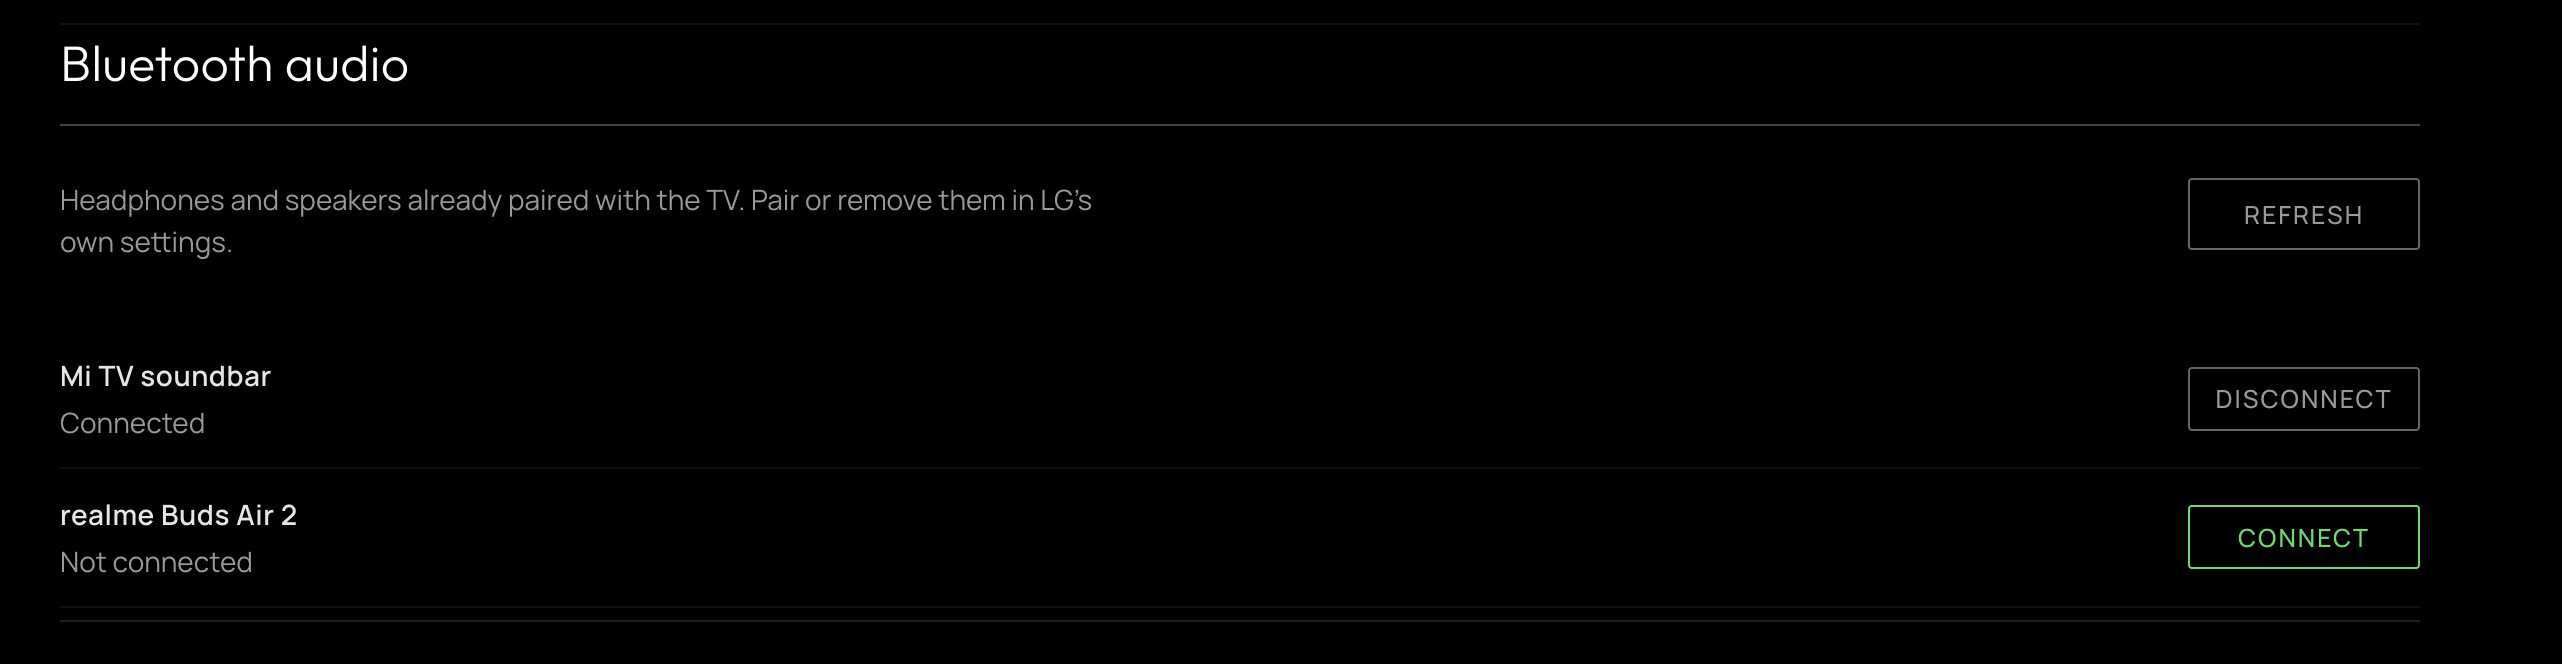
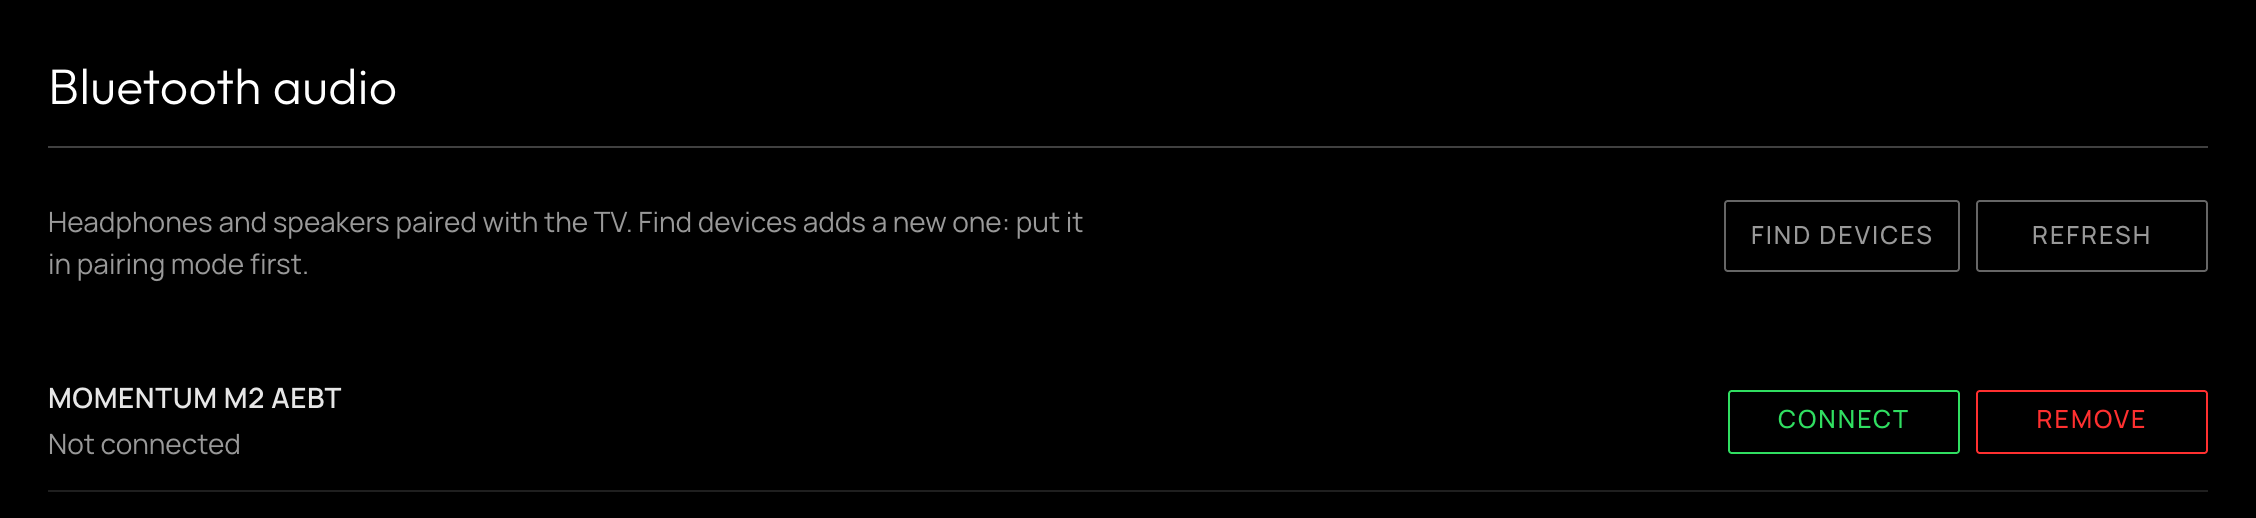
Docs: Bluetooth audio screenshot from the B8, shown on the Audio page

diff --git a/docs/dashboard/audio.md b/docs/dashboard/audio.md
@@ -18,6 +18,8 @@ changed.
 
 ## Bluetooth audio
 
+![Bluetooth audio on a B8: a paired pair of headphones, with Find devices, Connect and Remove](../screenshots/audio-bluetooth.png)
+
 The headphones and speakers paired with the TV, each with whether it is
 connected. **Connect** or **Disconnect** one, or **Remove** it from the TV; a
 removed device has to be paired again before it can be used.
